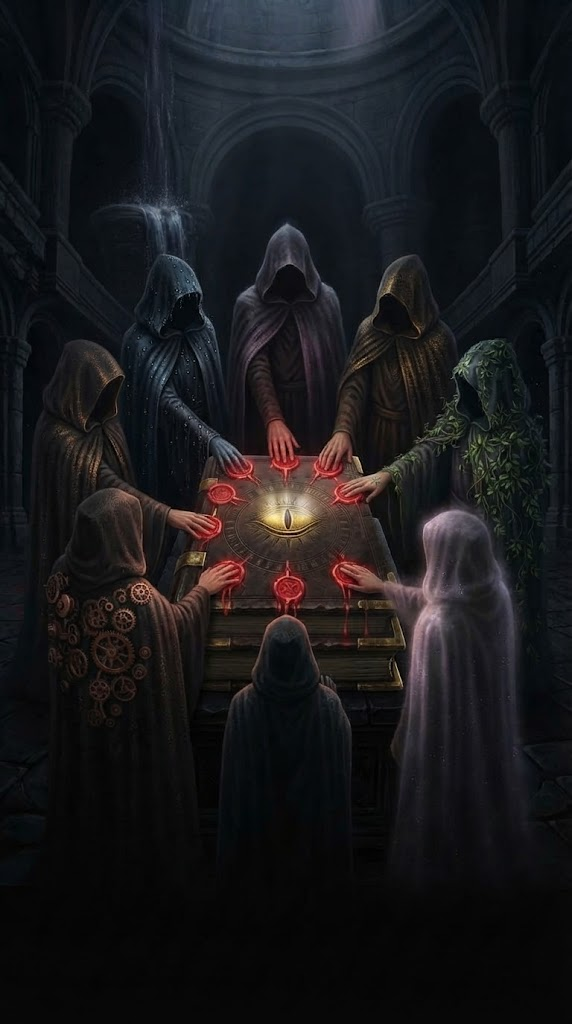
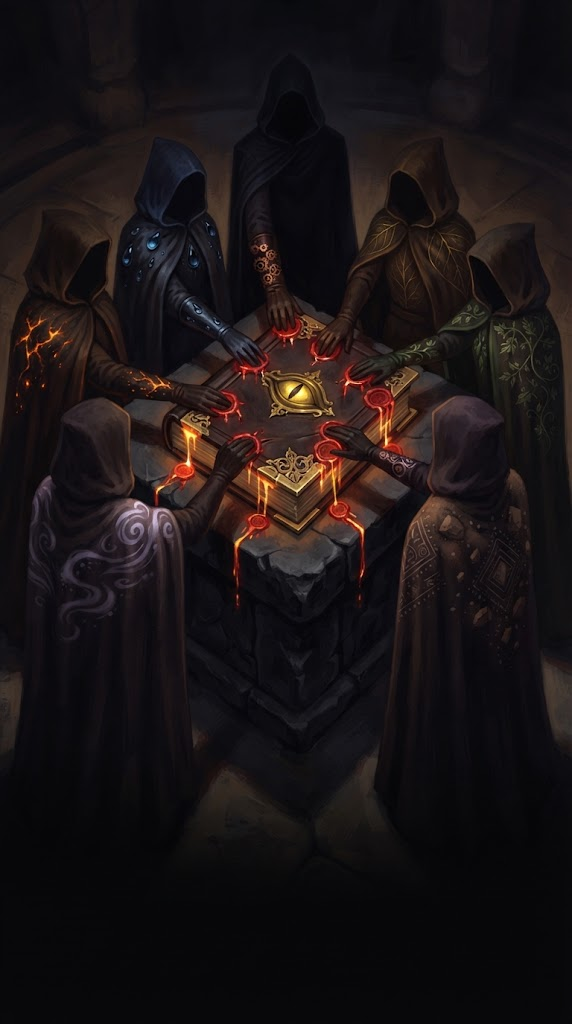
v778 : prologue, image des sept gardiens refaite
Claude-Session: https://claude.ai/code/session_01G3jW2e2fkjyWdrMoKXNbtm

diff --git a/js/screens/ending.js b/js/screens/ending.js
@@ -30,7 +30,7 @@ export function playEnding(app, { name } = {}) {
 export function playPrologue(app) {
   const scenes = [
     { img: 'p1', text: 'Les sept royaumes ont forgé le Bestiaire interdit pour enfermer ce qui ne devait plus marcher sous le ciel.', sfx: () => app.sfx.rumble?.() },
-    { img: 'p2', text: 'Sept gardiens, un par royaume, l’ont scellé de leur main. Ce furent les premiers Scelleurs.', sfx: () => app.sfx.page?.() },
+    { img: 'p2b', text: 'Sept gardiens, un par royaume, l’ont scellé de leur main. Ce furent les premiers Scelleurs.', sfx: () => app.sfx.page?.() },
     { img: 'p3', text: 'Une nuit, quelqu’un l’a déchiré.', sfx: () => app.sfx.rip?.() },
     { img: 'p4', text: 'Ses pages se sont envolées, et ses vingt chapitres sont tombés dans l’Abysse. Quelque chose les attendait.', sfx: () => app.sfx.rumble?.() },
     { img: 'p5', cls: 'last', text: 'Tu es le dernier à savoir lire les sceaux. Descends, et referme-les.', sfx: () => app.sfx.page?.(), after: '<button class="btn gold endx-go" data-endx="close">Commencer</button>' },

diff --git a/sw.js b/sw.js
@@ -1,7 +1,7 @@
 // Service worker d'ABYSSAL : l'application et les données sont mises en cache
 // pour fonctionner hors ligne après une première visite. Incrémenter VERSION à
 // chaque publication pour que les joueurs reçoivent la mise à jour.
-const VERSION = 'abyssal-v777';
+const VERSION = 'abyssal-v778';
 const ART_CACHE = 'abyssal-media';  // images du jeu : gardées entre les versions
 const FONT_CACHE = 'abyssal-fonts';
 const CORE = [

diff --git a/js/config.js b/js/config.js
@@ -1,7 +1,7 @@
 // Configuration centrale du jeu : raretés, tables de tirage, boosters,
 // économie, variantes, progression. Toute la balance se règle ici.
 
-export const VERSION = 'v777'; // même numéro que sw.js : affiché dans Réglages > À propos
+export const VERSION = 'v778'; // même numéro que sw.js : affiché dans Réglages > À propos
 
 export const RARITIES = [
   { key: 'C',  name: 'Commune',     short: 'C',  color: '#A3ADBD' },

diff --git a/CLAUDE.md b/CLAUDE.md
@@ -33,7 +33,7 @@ Ce texte reprend tout ce qu'il faut savoir du projet. Ce fichier est lu automati
 - SQL : `supabase/12-serveur-de-partie.sql` (table `parties`, fonctions `partie_*` réservées à `service_role`), puis **`supabase/13-verrouillage.sql` seulement quand À propos dit « Progression gardée par le serveur »** (plus d'écriture directe des sauvegardes, profils, fiches d'ami et Épreuves ; le joueur garde le choix de son pseudo).
 
 ## 2. Routine de livraison
-1. Version : **ligne 4** de `js/config.js` **et** de `sw.js`, toujours le même numéro (`sed -i "4s/vX/vY/" js/config.js sw.js`). Actuellement **v777**.
+1. Version : **ligne 4** de `js/config.js` **et** de `sw.js`, toujours le même numéro (`sed -i "4s/vX/vY/" js/config.js sw.js`). Actuellement **v778**.
 2. Tests : `node --test tests/*.test.mjs` (388 tests, dont `tests/syntaxe.test.mjs` qui passe `node --check` sur chaque fichier de `js/` : les écrans ne sont importés par aucun autre test), `node tools/validate.mjs`. Si le combat ou l'équilibre change : `node tools/fuzz.mjs 300` (étage moyen ≈ 12 à 14 en normal).
 3. Vérification dans le navigateur avec Playwright (`/opt/node-tools/node_modules/playwright/index.mjs`, Chromium déjà installé), avec un serveur local `python3 -m http.server 8092` lancé dans le dossier. Tailles iPhone SE et iPhone 13. **L'écran d'ouverture attend un toucher** (« Touche l'écran pour entrer ») : dans les scripts, cliquer au milieu de l'écran (dans la fenêtre 390×664) avant tout le reste.
 4. Commit, push, réponse en français.
@@ -114,6 +114,7 @@ Ce texte reprend tout ce qu'il faut savoir du projet. Ce fichier est lu automati
 - Amis par pseudo : **fait en v500**. Versus Booster (mini-jeu à mise contre d'autres joueurs) : **fait en v513**, devenu sans mise en v735 (« Le Choc des Boosters », refus d'Apple). Duels des Sceaux en ligne : **fait en v519** ; Pacte en ligne : **fait en v523** ; Enchères en ligne et Cryptes entre amis : **faits en v525**. Ensuite : versus 1 contre 1 (Sceaux et combats façon Descente). Le propriétaire veut que le perdant **perde vraiment** une carte. Cadre conseillé si on le fait : mode « Duel à enjeu » séparé et consenti (duel normal sans perte à côté), mise de même rareté des deux côtés, favoris jamais mis en jeu, adversaires de niveau proche, accès après quelques jours et duels normaux (contre les comptes jetables et le trafic de cartes), uniquement entre joueurs présents ou amis ayant accepté (jamais sur une partie jouée par l'IA à la place d'un absent).
 
 ## 5. Décisions déjà prises
+- v778 : image 2 du prologue refaite par Gemini avec **exactement sept** gardiens (`assets/prologue/p2b.webp`, nouveau nom ; ancienne source à 8 silhouettes gardée en `store/prologue/p2-8-silhouettes-source.jpg`). Rien testé sur un vrai iPhone.
 - v777 (demande du propriétaire) : **œil pour afficher le mot de passe** qu’on tape (création de compte, connexion, nouveau mot de passe) : `addEyes` dans `js/screens/account.js` (appelé après chaque dessin, `render` → `render0`), bouton `.pw-eye` dans `.pw-box` (fin de `css/army.css`), œil barré quand le mot de passe est visible ; libellés dans les 5 langues. Vérifié dans Chromium (375 px : texte affiché puis masqué) ; rien testé sur un vrai iPhone.
 - v776 (le propriétaire : « le Choc des Boosters n’a pas sa place dans la liste des mini-jeux : c’est à part, seulement en ligne, on ne joue pas avec nos cartes ») : **sous-onglet « Choc »** dans Aventure, entre Épreuves et Jeux (`SUBS.descente` dans `js/main.js`, icône `booster`) ; tuile retirée du Cercle (`js/screens/games.js`), plus de retour vers Jeux (`PARENT`, `SUB_OF`) ; pastille rouge du Choc (duels à voir, défis reçus : `mpw.games`) sur son propre sous-onglet, celle de Jeux ne compte plus que les coups en ligne à jouer. « Choc » dans les 5 langues. Vérifié dans Chromium (375 et 390 px, français et allemand) ; rien testé sur un vrai iPhone.
 - v775 (5 images Gemini ; le propriétaire : « 1 et 2 seulement », puis renonce à la scène de l’Horloger au chapitre 10 : « trop grillé que c’est lui ») : **prologue en cinématique** (`playPrologue` dans `js/screens/ending.js`, même lecteur de scènes que la fin, `playScenes(app, scènes, { dir, skipTo })`) : 5 images `assets/prologue/p1..p5.webp` (sources `store/prologue/p<N>-source.jpg`) : les sept royaumes forgent le Bestiaire, les sept gardiens le scellent, une nuit quelqu’un le déchire, les vingt chapitres tombent dans l’Abysse, « Tu es le dernier à savoir lire les sceaux » + bouton Commencer. Montré **une fois par appareil** (`localStorage['abyssal.prologue']`) à un nouveau joueur, juste avant le guide de bienvenue (`showWelcome`, `js/screens/welcome.js`) ; les joueurs qui ont déjà vu le guide ne le voient pas d’office. Revisible : Bestiaire → Histoire (« Revoir le prologue ») et Mode Créateur. Textes dans les 5 langues. À savoir : l’image 2 montre 8 silhouettes encapuchonnées au lieu de 7. Vérifié dans Chromium (nouveau joueur : prologue puis guide) ; rien testé sur un vrai iPhone.
